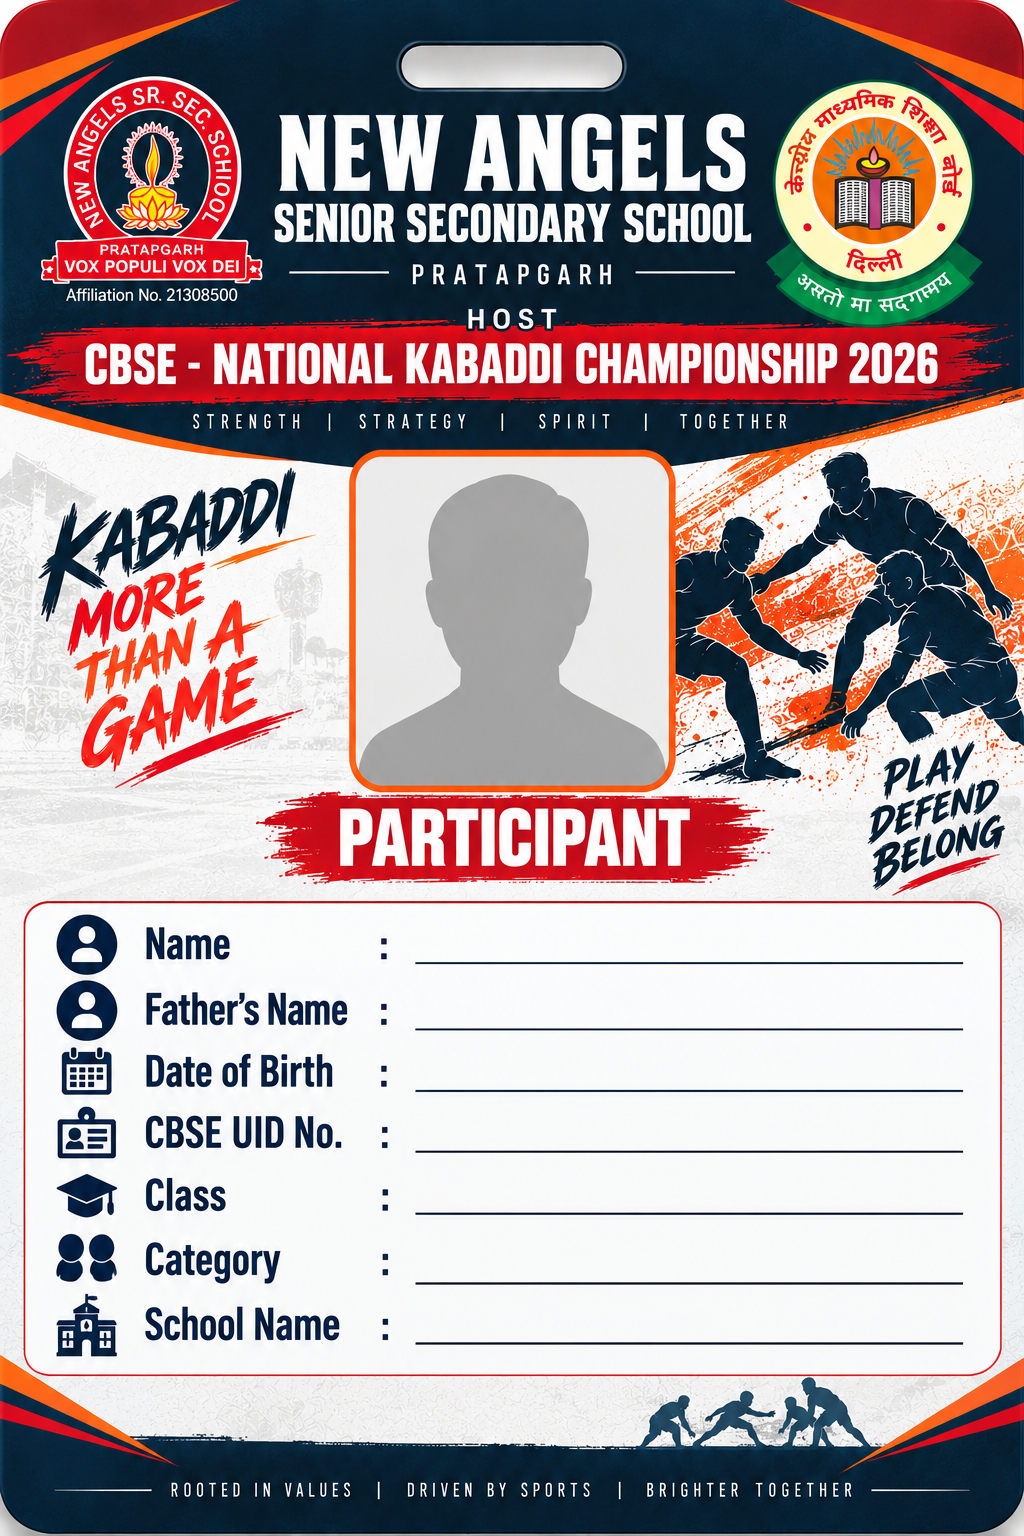
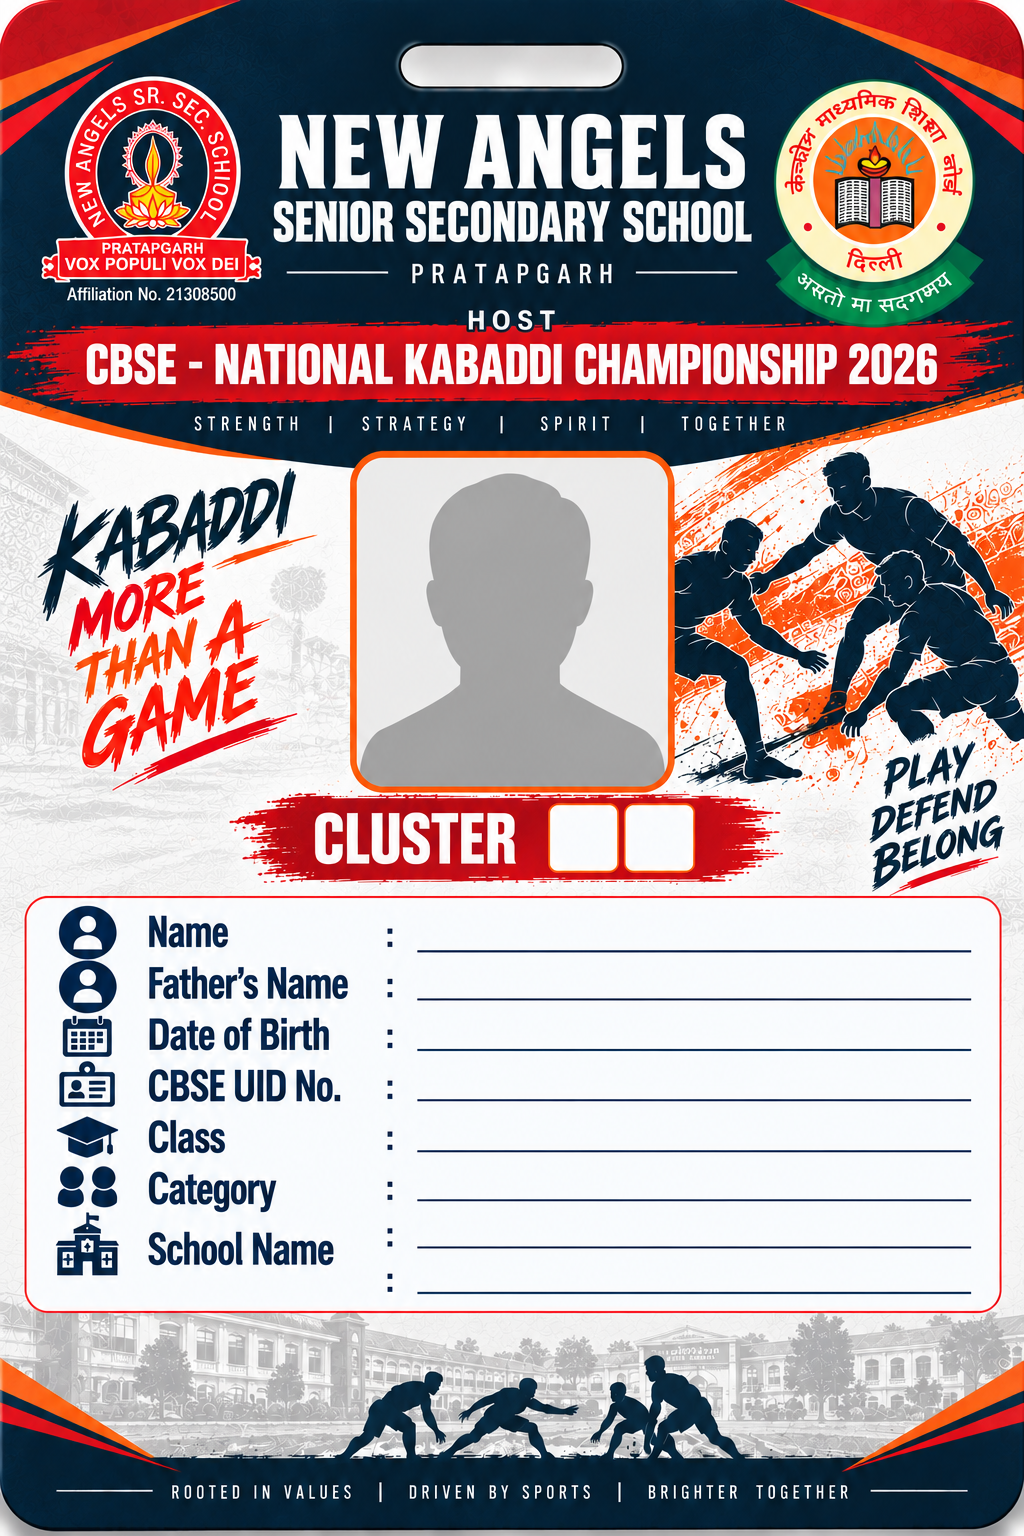
template changed and added delete photo button

diff --git a/frontend/src/pages/admin/Participants.tsx b/frontend/src/pages/admin/Participants.tsx
@@ -1,5 +1,5 @@
 import { useEffect, useMemo, useState } from "react";
-import { Plus, Pencil, Trash2, CheckCircle2, Circle, Upload, Download, Users, Search, Filter, FileSpreadsheet, IdCard } from "lucide-react";
+import { Plus, Pencil, Trash2, CheckCircle2, Circle, Upload, Download, Users, Search, Filter, FileSpreadsheet, IdCard, ImageOff } from "lucide-react";
 import { toast } from "sonner";
 import { api, BASE_URL } from "@/lib/api";
 import { Button } from "@/components/ui/button";
@@ -25,6 +25,7 @@ interface Participant {
   father_name?: string;
   date_of_birth?: string;
   student_class?: string;
+  photo_url?: string | null;
 }
 
 interface Coach {
@@ -162,6 +163,17 @@ export default function Participants() {
     await api.delete(`/participants/${id}`);
     toast.success("Participant deleted");
     load();
+  };
+
+  const removePhoto = async (p: Participant) => {
+    if (!confirm(`Remove ${p.full_name}'s photo?`)) return;
+    try {
+      await api.delete(`/participants/${p.id}/photo`);
+      setParticipants((rows) => rows.map((r) => (r.id === p.id ? { ...r, photo_url: null } : r)));
+      toast.success("Photo removed");
+    } catch {
+      toast.error("Could not remove photo");
+    }
   };
 
   const toggleAttendance = async (p: Participant) => {
@@ -479,14 +491,26 @@ export default function Participants() {
                     )}
                   </div>
 
-                  <div className="border-t border-white/10 pt-2.5">
+                  <div className="border-t border-white/10 pt-2.5 flex gap-2">
                     <a
                       href={`${BASE_URL}/api/export/idcards/participant/${p.id}.pdf`}
-                      className="inline-flex h-8 w-full items-center justify-center gap-1.5 rounded-md border border-white/15 bg-white/5 text-xs font-semibold text-slate-200 hover:bg-white/10"
+                      className="inline-flex h-8 flex-1 items-center justify-center gap-1.5 rounded-md border border-white/15 bg-white/5 text-xs font-semibold text-slate-200 hover:bg-white/10"
                       data-testid={`download-idcard-mobile-${p.id}`}
                     >
                       <IdCard className="h-3.5 w-3.5 text-gold" /> Download ID Card
                     </a>
+                    {canEdit && p.photo_url && (
+                      <Button
+                        variant="outline"
+                        size="sm"
+                        className="h-8 shrink-0"
+                        onClick={() => removePhoto(p)}
+                        data-testid={`remove-photo-mobile-${p.id}`}
+                        title="Remove Uploaded Photo"
+                      >
+                        <ImageOff className="h-3.5 w-3.5 text-red-400" />
+                      </Button>
+                    )}
                   </div>
                   {canEdit && (
                     <div className="grid grid-cols-2 gap-2 border-t border-white/10 pt-2.5">
@@ -599,6 +623,17 @@ export default function Participants() {
                           >
                             <IdCard className="h-3.5 w-3.5" />
                           </a>
+                          {canEdit && p.photo_url && (
+                            <Button
+                              variant="ghost"
+                              size="icon-sm"
+                              onClick={() => removePhoto(p)}
+                              data-testid={`remove-photo-${p.id}`}
+                              title="Remove Uploaded Photo"
+                            >
+                              <ImageOff className="h-3.5 w-3.5 text-red-400" />
+                            </Button>
+                          )}
                           {canEdit && (
                             <Button
                               variant="ghost"

diff --git a/backend/app/id_card.py b/backend/app/id_card.py
@@ -16,9 +16,23 @@ need to be re-measured, there's no dynamic layout here by design (it's a
 fixed print template, not a flowable document).
 """
 import io
+import re
 from pathlib import Path
 
 from PIL import Image, ImageDraw, ImageFont
+
+_AGE_GROUP_NUM_RE = re.compile(r"(\d+)")
+
+
+def sort_key(participant) -> tuple:
+    """Age group ascending (Under 14 before Under 17 before Under 19), then
+    alphabetical by name within that group — how a printed sheet of cards
+    should be ordered, not the plain alphabetical-only order the admin table
+    uses. Age groups with no parseable number (or none set) sort last."""
+    age_group = participant.age_group or ""
+    m = _AGE_GROUP_NUM_RE.search(age_group)
+    rank = int(m.group(1)) if m else 9999
+    return (rank, age_group, participant.full_name)
 
 TEMPLATE_PATH = Path(__file__).resolve().parent.parent / "assets" / "templates" / "id_card_template.png"
 # All box/line coordinates below are measured in this native template
@@ -115,21 +129,24 @@ PHOTO_BOX = (364, 466, 660, 776)
 
 FONT_BOLD_PATH = "/usr/share/fonts/truetype/dejavu/DejaVuSans-Bold.ttf"
 VALUE_COLOR = (15, 23, 42)
-VALUE_MAX_SIZE = 36
-VALUE_MIN_SIZE = 18
-VALUE_X = 430
-VALUE_MAX_WIDTH = 520
+VALUE_MAX_SIZE = 32
+VALUE_MIN_SIZE = 16
+VALUE_X = 425
+VALUE_MAX_WIDTH = 535
 
-# (field key, baseline y) — value text is drawn just above each printed
-# underline, left-aligned starting at VALUE_X.
+# (field key, [baseline y, ...]) — value text is drawn just above each
+# printed underline, left-aligned starting at VALUE_X. School Name gets two
+# lines on this template (it's the one field long enough to regularly need
+# wrapping — a school's full name rarely fits in one line at a readable
+# size), everything else is a single line.
 FIELD_LINES = [
-    ("name", 947),
-    ("father_name", 1014),
-    ("dob", 1075),
-    ("uid", 1136),
-    ("class_", 1198),
-    ("category", 1268),
-    ("school", 1328),
+    ("name", [939]),
+    ("father_name", [987]),
+    ("dob", [1037]),
+    ("uid", [1088]),
+    ("class_", [1139]),
+    ("category", [1188]),
+    ("school", [1235, 1280]),
 ]
 
 
@@ -143,11 +160,65 @@ def _fit_font(draw: ImageDraw.ImageDraw, text: str, max_width: int) -> ImageFont
     return ImageFont.truetype(FONT_BOLD_PATH, VALUE_MIN_SIZE)
 
 
-def _draw_value(draw: ImageDraw.ImageDraw, baseline_y: int, text: "str | None") -> None:
+def _wrap_to_lines(draw: ImageDraw.ImageDraw, text: str, font: ImageFont.FreeTypeFont, max_width: int, max_lines: int) -> list[str]:
+    """Greedy word-wrap into at most max_lines lines that each fit max_width
+    at the given font. If it still doesn't fit within max_lines, the last
+    line is truncated with an ellipsis rather than overflowing the card."""
+    words = text.split()
+    lines: list[str] = []
+    current = ""
+    for word in words:
+        candidate = f"{current} {word}".strip()
+        if draw.textlength(candidate, font=font) <= max_width:
+            current = candidate
+        else:
+            if current:
+                lines.append(current)
+            current = word
+            if len(lines) == max_lines:
+                break
+    if current and len(lines) < max_lines:
+        lines.append(current)
+    if not lines:
+        lines = [text]
+
+    if len(lines) > max_lines:
+        lines = lines[:max_lines]
+    # if words remain unplaced (broke out of the loop above, or the wrap
+    # simply produced more lines than allowed), mark the last line truncated
+    consumed = " ".join(lines)
+    if len(consumed) < len(text.rstrip()):
+        last = lines[max_lines - 1]
+        while draw.textlength(last + "…", font=font) > max_width and len(last) > 1:
+            last = last[:-1].rstrip()
+        lines[max_lines - 1] = last + "…"
+    return lines
+
+
+def _fit_font_multiline(draw: ImageDraw.ImageDraw, text: str, max_width: int, max_lines: int) -> tuple[ImageFont.FreeTypeFont, list[str]]:
+    size = VALUE_MAX_SIZE
+    while size > VALUE_MIN_SIZE:
+        font = ImageFont.truetype(FONT_BOLD_PATH, size)
+        if draw.textlength(text, font=font) <= max_width:
+            return font, [text]
+        lines = _wrap_to_lines(draw, text, font, max_width, max_lines)
+        if len(lines) <= max_lines and all(draw.textlength(line, font=font) <= max_width for line in lines):
+            return font, lines
+        size -= 2
+    font = ImageFont.truetype(FONT_BOLD_PATH, VALUE_MIN_SIZE)
+    return font, _wrap_to_lines(draw, text, font, max_width, max_lines)
+
+
+def _draw_value(draw: ImageDraw.ImageDraw, baseline_ys: list[int], text: "str | None") -> None:
     if not text:
         return
-    font = _fit_font(draw, text, VALUE_MAX_WIDTH)
-    draw.text((VALUE_X, baseline_y), text, font=font, fill=VALUE_COLOR, anchor="ls")
+    if len(baseline_ys) == 1:
+        font = _fit_font(draw, text, VALUE_MAX_WIDTH)
+        draw.text((VALUE_X, baseline_ys[0]), text, font=font, fill=VALUE_COLOR, anchor="ls")
+        return
+    font, lines = _fit_font_multiline(draw, text, VALUE_MAX_WIDTH, len(baseline_ys))
+    for baseline_y, line in zip(baseline_ys, lines):
+        draw.text((VALUE_X, baseline_y), line, font=font, fill=VALUE_COLOR, anchor="ls")
 
 
 def _paste_photo(card: Image.Image, photo_path: "Path | None") -> None:
@@ -196,8 +267,8 @@ def render_id_card(participant, team, photo_path: "Path | None" = None) -> Image
         "category": participant.age_group,
         "school": team.school or team.name,
     }
-    for key, baseline_y in FIELD_LINES:
-        _draw_value(draw, baseline_y, values.get(key))
+    for key, baseline_ys in FIELD_LINES:
+        _draw_value(draw, baseline_ys, values.get(key))
 
     return card
 

diff --git a/backend/app/routers/exports.py b/backend/app/routers/exports.py
@@ -672,7 +672,7 @@ def export_idcard_team(team_id: int, db: Session = Depends(get_db)):
     team = db.get(models.Team, team_id)
     if not team:
         raise HTTPException(404, "Team not found")
-    participants = sorted(team.participants, key=lambda p: p.full_name)
+    participants = sorted(team.participants, key=id_card.sort_key)
     if not participants:
         raise HTTPException(404, "This team has no participants to generate cards for")
     cards = [id_card.render_id_card(p, team, _photo_path(p)) for p in participants]
@@ -686,7 +686,7 @@ def export_idcard_all(db: Session = Depends(get_db)):
     teams = {t.id: t for t in db.query(models.Team).all()}
     participants = (
         db.query(models.Participant)
-        .order_by(models.Participant.team_id, models.Participant.full_name)
+        .order_by(models.Participant.team_id)
         .all()
     )
     if not participants:
@@ -697,13 +697,23 @@ def export_idcard_all(db: Session = Depends(get_db)):
     dpi = id_card.BULK_PRINT_DPI
     sheets: list = []
     current_team_id = None
-    current_team_cards: list = []
+    current_team_group: list = []
+
+    def _flush():
+        if not current_team_group:
+            return
+        # sort each team's group (age group, then name) before rendering, so
+        # cards print in a sensible order within each team's own sheets
+        ordered = sorted(current_team_group, key=id_card.sort_key)
+        cards = [id_card.render_id_card(p, teams[current_team_id], _photo_path(p)) for p in ordered]
+        sheets.extend(id_card.build_team_sheets(cards, dpi=dpi))
+
     for p in participants:
         if p.team_id != current_team_id:
-            sheets.extend(id_card.build_team_sheets(current_team_cards, dpi=dpi))
+            _flush()
             current_team_id = p.team_id
-            current_team_cards = []
-        current_team_cards.append(id_card.render_id_card(p, teams[p.team_id], _photo_path(p)))
-    sheets.extend(id_card.build_team_sheets(current_team_cards, dpi=dpi))
+            current_team_group = []
+        current_team_group.append(p)
+    _flush()
     pdf = id_card.build_pdf(sheets, dpi=dpi)
     return _pdf_response(pdf, "idcards-all-teams.pdf")

diff --git a/backend/app/routers/participants.py b/backend/app/routers/participants.py
@@ -3,6 +3,7 @@ from sqlalchemy.orm import Session
 
 from .. import models, schemas
 from ..database import get_db
+from .public import ASSETS_PARTICIPANTS_DIR
 
 router = APIRouter(prefix="/api/participants", tags=["participants"])
 
@@ -45,3 +46,22 @@ def delete_participant(participant_id: int, db: Session = Depends(get_db)):
         raise HTTPException(404, "Participant not found")
     db.delete(p)
     db.commit()
+
+
+@router.delete("/{participant_id}/photo", response_model=schemas.ParticipantRead)
+def delete_participant_photo(participant_id: int, db: Session = Depends(get_db)):
+    """Admin-side removal — e.g. a wrong/inappropriate photo uploaded via the
+    public /public/participants/{id}/photo endpoint. Clears the DB reference
+    and deletes the file from disk; safe to call even if the file is already
+    gone (idempotent)."""
+    p = db.get(models.Participant, participant_id)
+    if not p:
+        raise HTTPException(404, "Participant not found")
+    if p.photo_filename:
+        path = ASSETS_PARTICIPANTS_DIR / p.photo_filename
+        if path.exists() and path.is_file():
+            path.unlink()
+        p.photo_filename = None
+        db.commit()
+        db.refresh(p)
+    return p
